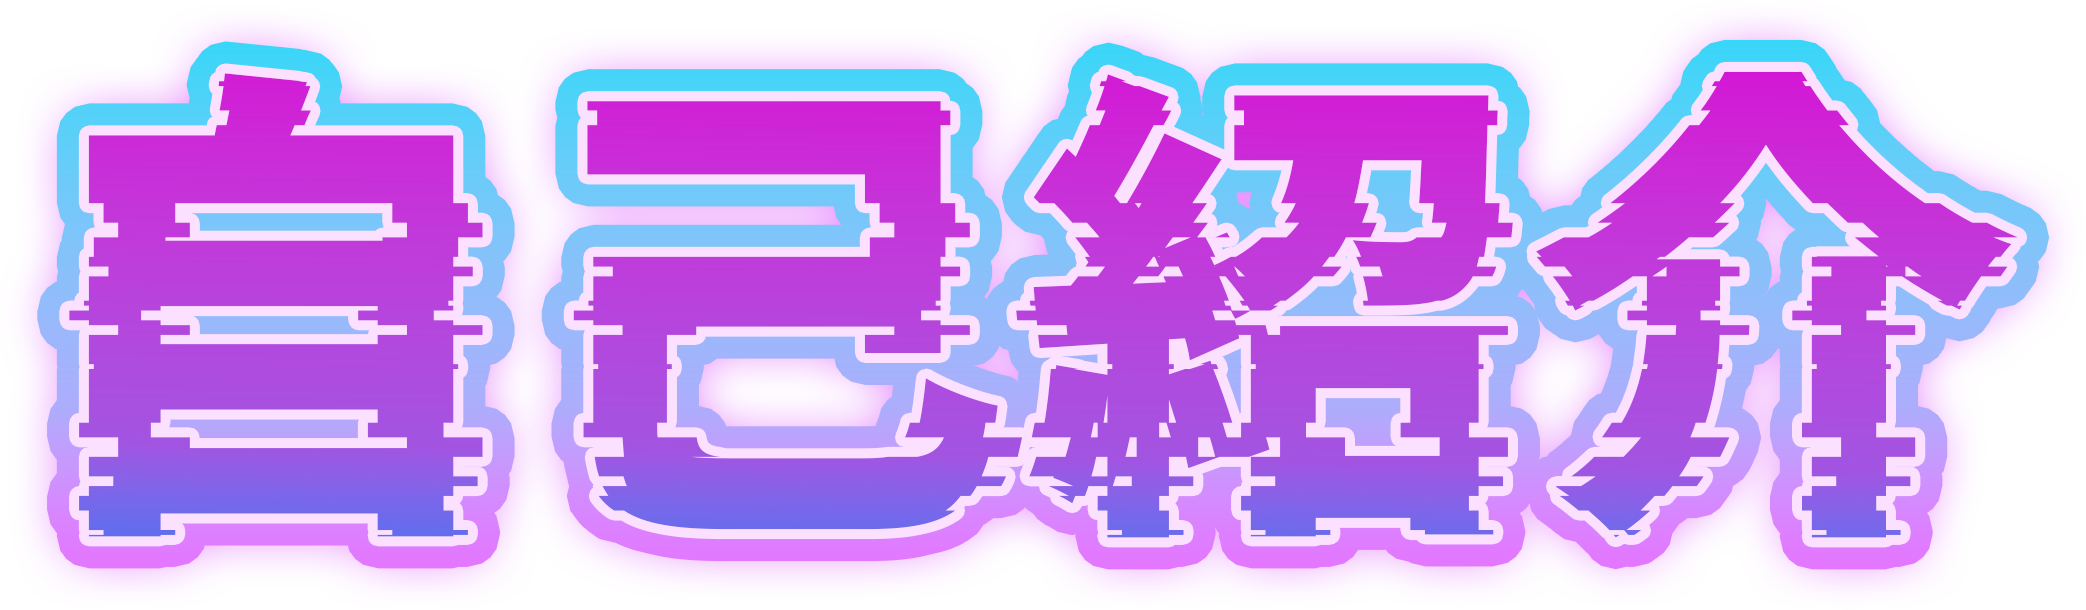
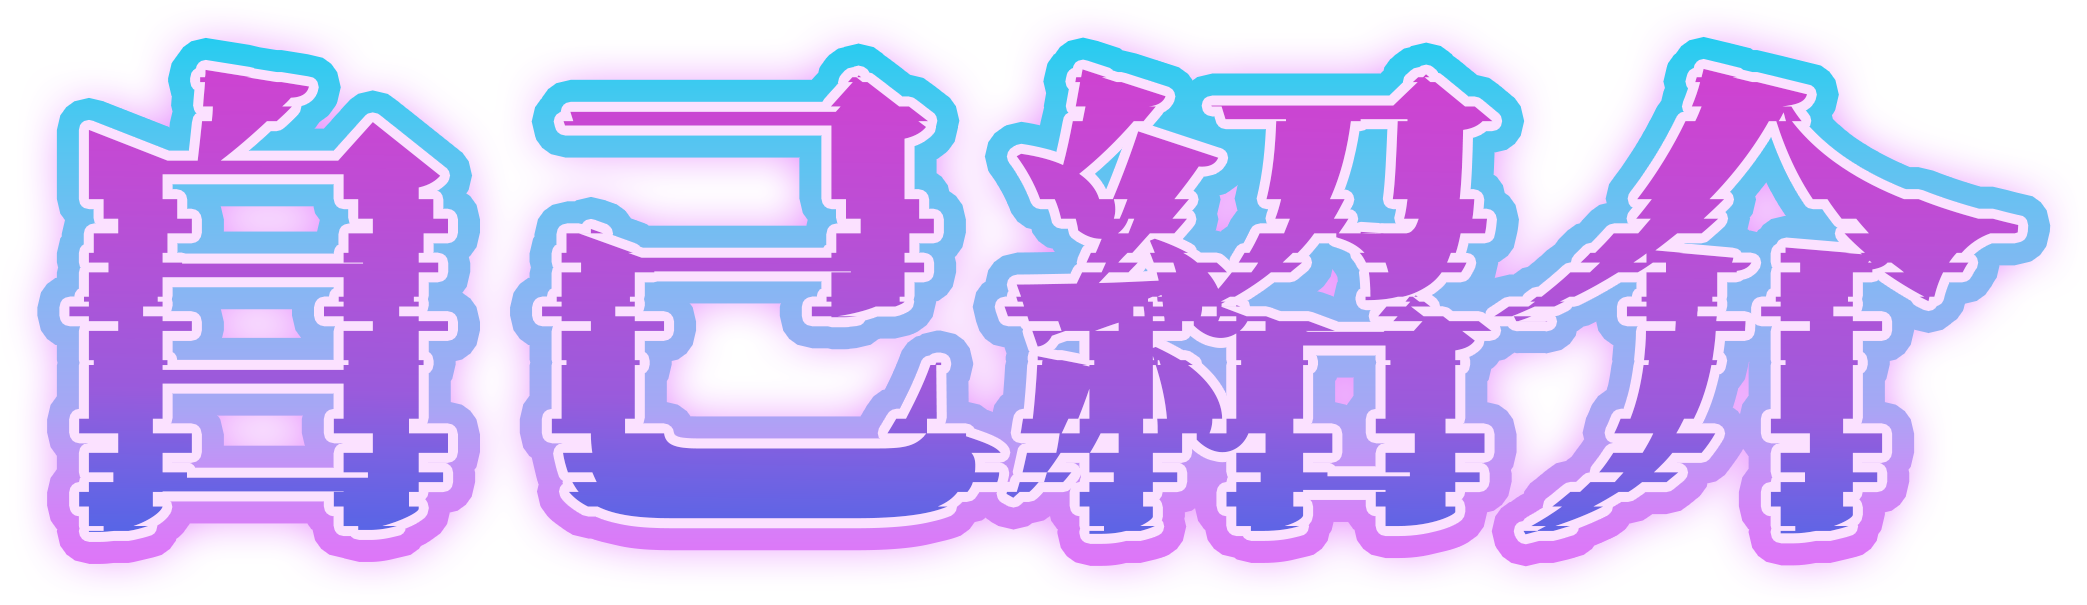
10-25作成内容

diff --git a/src/CSS/test.css b/src/CSS/test.css
@@ -1,38 +1,86 @@
 /* フォント埋め込み */
-@import url('https://fonts.googleapis.com/css2?family=Mochiy+Pop+P+One&display=swap');
+@import url('https://fonts.googleapis.com/css2?family=DotGothic16&display=swap');
+
+/* 星のエフェクト */
+/* 星空の背景のスタイル */
+.stars {
+  position: relative;
+  width: 100%; /* 星空の横幅 */
+  overflow: hidden; /* 星が枠外にはみ出すのを防ぐ */
+}
+
+/* 星のスタイル */
+.star {
+  /* background-image:url(../assets/star.png);  */
+  position: absolute;
+  display: block;
+  background-color: #ffffff; /*星の色*/
+  border-radius: 50%;
+  box-shadow: 0 0 10px 5px rgba(#fff, 0.5); /*星の影*/
+  opacity: 0;
+  animation: twinkle 5s infinite;
+}
+
+/* 星がキラキラ光るアニメーション */
+@keyframes twinkle {
+  0% {
+    opacity: 0;
+  }
+
+  50% {
+    transform: scale(1.1);
+    opacity: 1;
+  }
+
+  100% {
+    opacity: 0;
+    transform: scale(1);
+  }
+}
+/* 星のエフェクトここまで */
 
 /* マウスストーカー */
 
-  svg {
-    display: none;
-  }
-  
-  .Cursor {
-    pointer-events: none;
-    position: fixed;
-    display: block;
-    border-radius: 0;
-    transform-origin: center center;
-    mix-blend-mode: difference;
-    top: 0;
-    left: 0;
-    z-index: 1000;
-    filter: url("#goo");
-  }
+svg {
+  display: none;
+}
 
-  .Cursor span {
-    position: absolute;
-    display: block;
-    width: 26px;
-    height: 26px;
-    border-radius: 20px;
-    background-color: #ffff00;
-    transform-origin: center center;
-    transform: translate(-50%, -50%);
-  }
+.Cursor {
+  pointer-events: none;
+  position: fixed;
+  display: block;
+  border-radius: 0;
+  transform-origin: center center;
+  mix-blend-mode: difference;
+  top: 0;
+  left: 0;
+  z-index: 1000;
+  filter: url("#goo");
+}
 
+.Cursor span {
+  position: absolute;
+  display: block;
+  width: 26px;
+  height: 26px;
+  border-radius: 20px;
+  background-color: #ffff00;
+  transform-origin: center center;
+  transform: translate(-50%, -50%);
+}
 
-  /* マウスストーカー ここまで */
+.test-button{
+  text-align: center;
+  width:30%;
+  height:100px
+}
+.test-button a{
+  display: block;
+  background-color: #ffff00;
+}
+
+/* マウスストーカー ここまで */
+
 
 .margin-right-30{
     margin-right: 30px;
@@ -48,7 +96,7 @@
 }
 
 * {
-    cursor: none;
+    /* cursor: none; */
     -webkit-font-smoothing: antialiased;
     -moz-osx-font-smoothing: grayscale;
     margin: 0;
@@ -65,7 +113,8 @@
   body {
     background-color: #000000;
     color: #ffffff;
-    font-family: 'Mochiy Pop P One', sans-serif;
+    font-family: 'DotGothic16', sans-serif;
+    font-weight: 900;
     background-image: url("../assets/background4.png");
     background-attachment: fixed;
     background-size: cover;
@@ -91,7 +140,7 @@
    .headertitle-img{
     position: relative;
     top: 0px;
-    width: 1200px;
+    width: 100%;
     height: auto;
   }
 
@@ -117,7 +166,7 @@
    .headline-img{
     position: relative;
     top: 40px;
-    width: 280px;
+    width: 30%;
     height: auto;
   }
   
@@ -151,7 +200,7 @@
 
   /* セクションに背景を付けたい */
   .section{
-    background-image: url("../assets/gridLine3.png");
+    background-image: url("../assets/gridLine4.png");
     background-repeat:no-repeat;
     background-size: 85% 95%;
     background-position: center;
@@ -173,9 +222,6 @@
     align-items: center;
   }
   
-  .side-scroll-heading {
-    color: #eeebdd;
-  }
   
   .side-scroll-list-wrapper {
     position: relative;
@@ -191,17 +237,31 @@
     gap: 0 60px;
   }
   
+  /* 横並びの作品の箱 */
   .side-scroll-item {
     display: flex;
     align-items: center;
     justify-content: center;
-    width: 420px;
-    height: 300px;
-    background-color: #eeebdd;
-    color: #1b1717;
+    background-color: none;
+    color: #ffffff;
     font-size: 32px;
     font-weight: 700;
+    background-color: #000000;
+    min-width: 300px;
+    transition: all 0.3s;
   }
+  .side-scroll-item:hover{
+    transform: scale(1.1);
+    opacity: 0.8;
+  }
+
+  /* 横並び作品画像 */
+  .side-scroll-item img{
+    box-shadow: 0px 0px 25px 5px rgb(255, 255, 255);
+    width:500px;
+    height:auto;
+  }
+
   
   .side-scroll-item + .side-scroll-item {
     margin-left: 60px;

diff --git a/src/HTML/test.html b/src/HTML/test.html
@@ -8,12 +8,19 @@
     <title>堀江望恵です！！</title>
 
     <script src="https://cdnjs.cloudflare.com/ajax/libs/gsap/3.6.1/gsap.min.js"></script>
+
+    
 <script src="https://cdnjs.cloudflare.com/ajax/libs/gsap/3.6.1/ScrollTrigger.min.js"></script>
+
 
 </head>
 
 <body>
+
+  <!-- 星のエフェクト -->
+  <div class="stars">
     
+
 <!-- カーソル処理ここから -->
 <svg xmlns="http://www.w3.org/2000/svg" version="1.1" width="800">
     <defs>
@@ -28,7 +35,8 @@
 <div id="cursor" class="Cursor">
 </div>
 
-<a href="#">test</a>
+
+
 
 <!-- カーソル処理ここまで -->
 
@@ -39,9 +47,13 @@
 
             <!-- タイトル -->
             <div class="header-title-container">
-                <img class="headertitle-img" src="../assets/title3.png" alt="(タイトル)堀江望恵のポートフォリオ">
+                <img class="headertitle-img" src="../assets/title5.png" alt="(タイトル)堀江望恵のポートフォリオ">
             </div>
             
+            <!-- テストボタン -->
+            <!-- <div class="test-button">
+              <a class="obj-button" href="#">test</a>
+            </div> -->
 
             <!-- <div class="link">
             
@@ -90,7 +102,12 @@
 
 <section class="normal section">
     <div class="container">
-      <h2 class="normal-heading heading">賞罰</h2>
+
+      <!-- 見出し -->
+    <div class="headline-container">
+      <img class="headline-img" src="../assets/Awards.png" alt="(見出し)受賞歴">
+    </div>
+
       <p class="normal-text">
         2021年 10月	未来のアイテム企画学内コンテスト 意欲賞 受賞<br>
         <br>
@@ -104,17 +121,25 @@
   </section>
 
 
-
+</div>
+<!-- 星のエフェクトここまで -->
 
 <section class="side-scroll section">
   <div class="side-scroll-container container">
-    <h2 class="side-scroll-heading heading">
-      作品集
-    </h2>
+    
+      <!-- 見出し -->
+      <div class="headline-container">
+        <img class="headline-img" src="../assets/works.png" alt="(見出し)作品集">
+      </div>
+  
     <div class="side-scroll-list-wrapper">
       <ul class="side-scroll-list">
-        <li class="side-scroll-item">作品</li>
-        <li class="side-scroll-item">作品</li>
+        <li class="side-scroll-item">
+          <a href="#"><img src="../assets/Exprand.gif" alt="(作品)Exprand"></a>
+        </li>
+        <li class="side-scroll-item">
+          <a href="#"><img src="../assets/guzuore.gif" alt="(作品)グズな俺が杖を振る"></a>
+        </li>
         <li class="side-scroll-item">作品</li>
         <li class="side-scroll-item">作品</li>
         <li class="side-scroll-item">作品</li>
@@ -135,13 +160,21 @@
     </div>
 </footer>
 
+    
 
-    <!-- スクロールのスクリプト -->
-    <script type="text/javascript" src="../JS/test.js"></script>
 
-    <!-- マウスストーカーのスクリプト -->
-    <script type="text/javascript" src="../JS/mouseStalker.js"></script>
 
+    
+
+
+  <!-- スクロールのスクリプト -->
+  <script type="text/javascript" src="../JS/test.js"></script>
+
+  <!-- マウスストーカーのスクリプト -->
+  <script type="text/javascript" src="../JS/mouseStalker.js"></script>
+
+  <!-- 星のエフェクトのスクリプト -->
+  <script type="text/javascript" src="../JS/makeStar.js"></script>
 
 </body>
 </html>

diff --git a/src/JS/makeStar.js b/src/JS/makeStar.js
@@ -1,0 +1,24 @@
+window.addEventListener("DOMContentLoaded", () => {
+    // 星を表示するための親要素を取得
+    const stars = document.querySelector(".stars");
+  
+    // 星を生成する関数
+    const createStar = () => {
+      const starEl = document.createElement("span");
+      starEl.className = "star";
+      const minSize = 3; // 星の最小サイズを指定
+      const maxSize = 7; // 星の最大サイズを指定
+      const size = Math.random() * (maxSize - minSize) + minSize;
+      starEl.style.width = `${size}px`;
+      starEl.style.height = `${size}px`;
+      starEl.style.left = `${Math.random() * 100}%`;
+      starEl.style.top = `${Math.random() * 100}%`;
+      starEl.style.animationDelay = `${Math.random() * 10}s`;
+      stars.appendChild(starEl);
+    };
+  
+    // for文で星を生成する関数を指定した回数呼び出す
+    for (let i = 0; i <= 500; i++) {
+      createStar();
+    }
+  });

diff --git a/src/JS/mouseStalker.js b/src/JS/mouseStalker.js
@@ -141,5 +141,6 @@ const positionCursor = delta => {
   });
 }
 
+
 // 初期化関数を呼び出し、プログラムを開始
 init();
